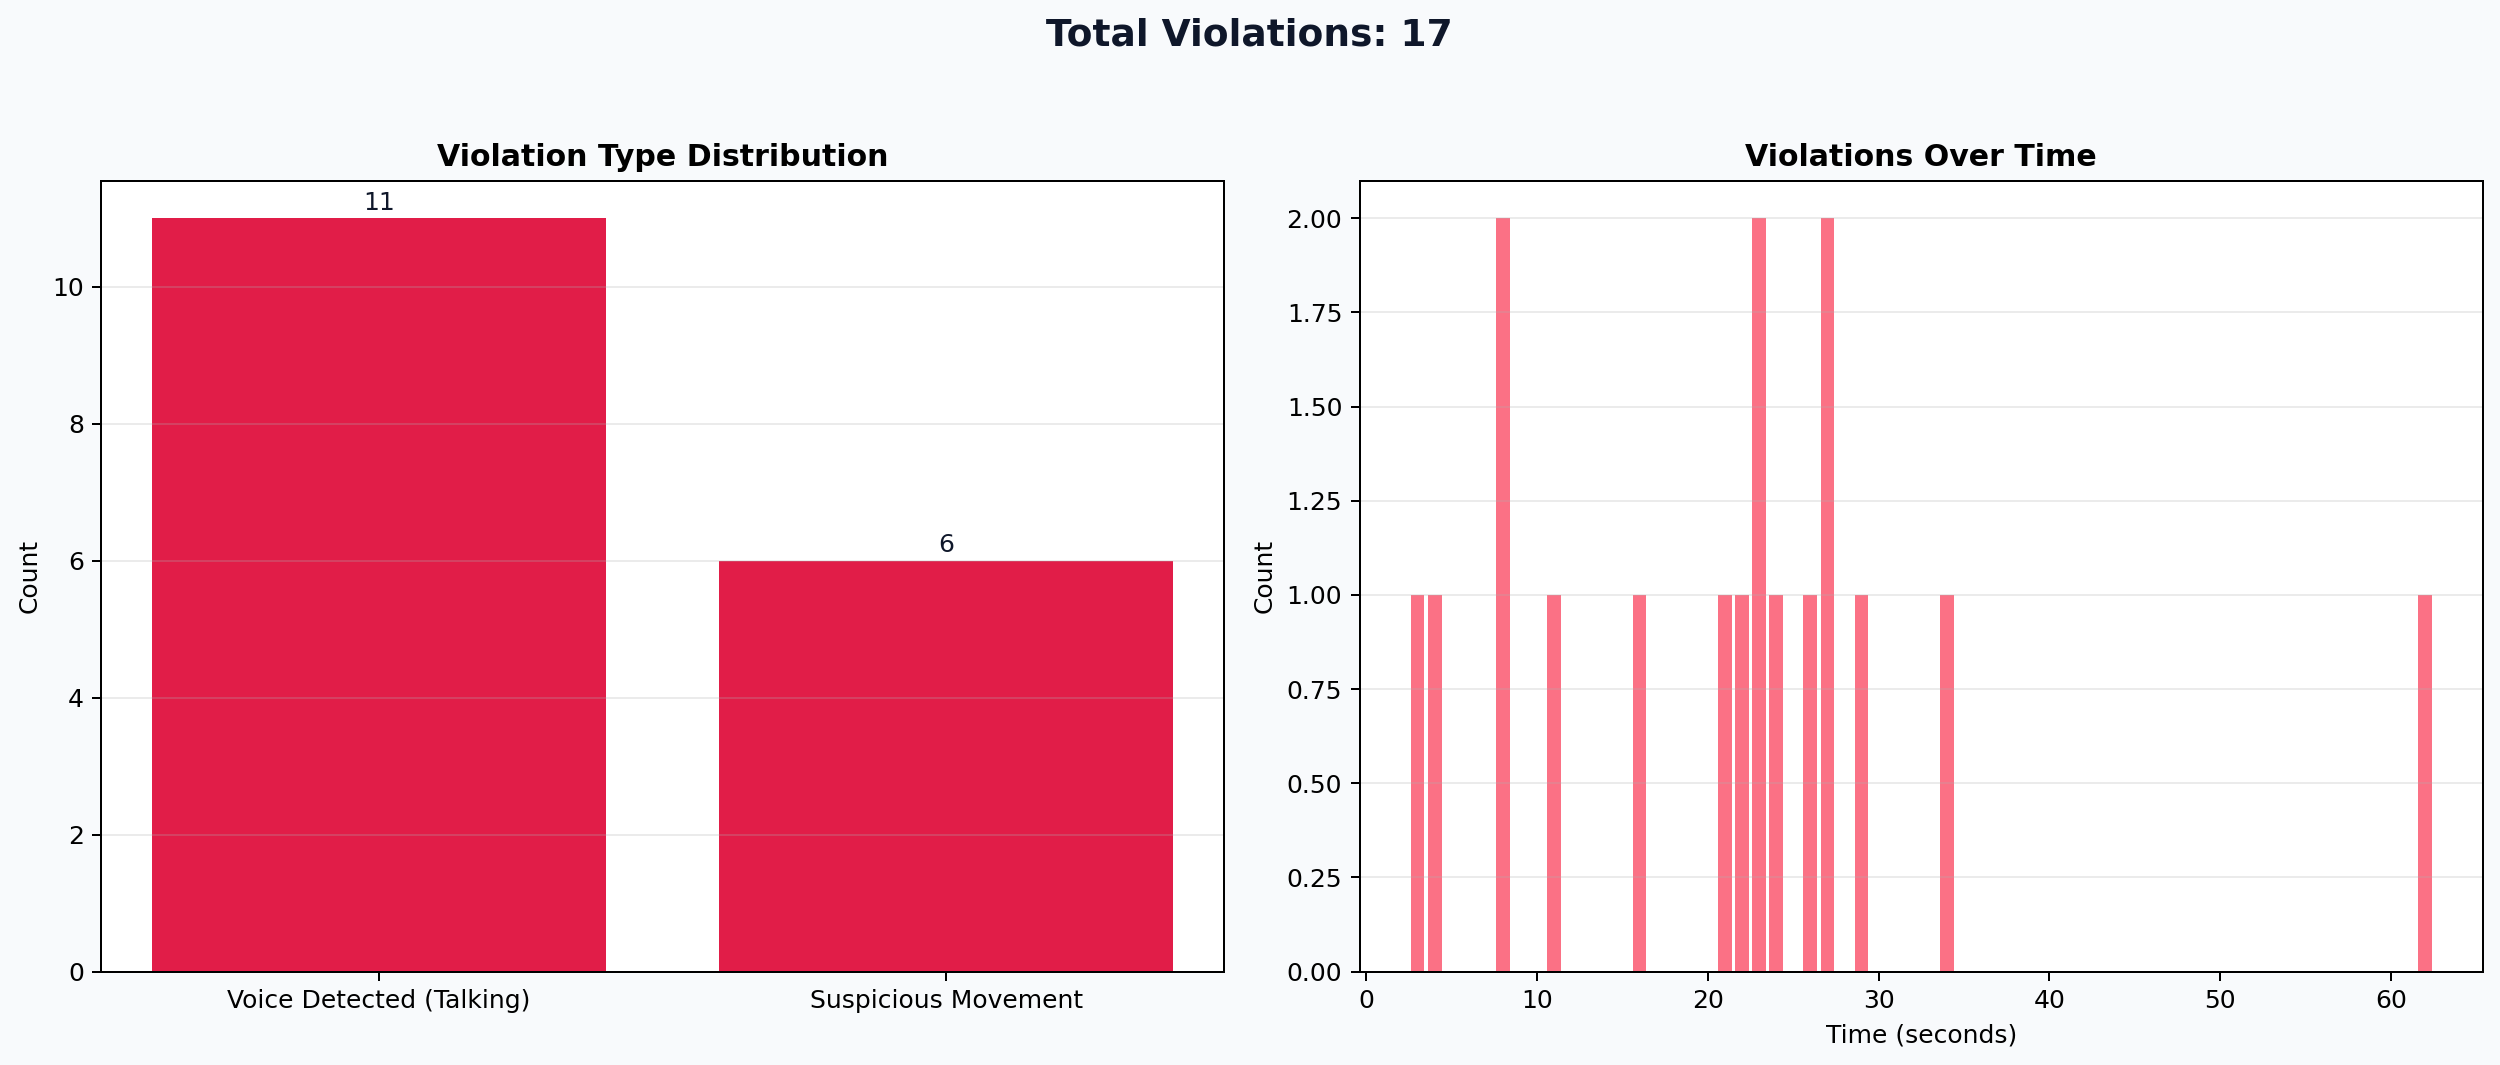
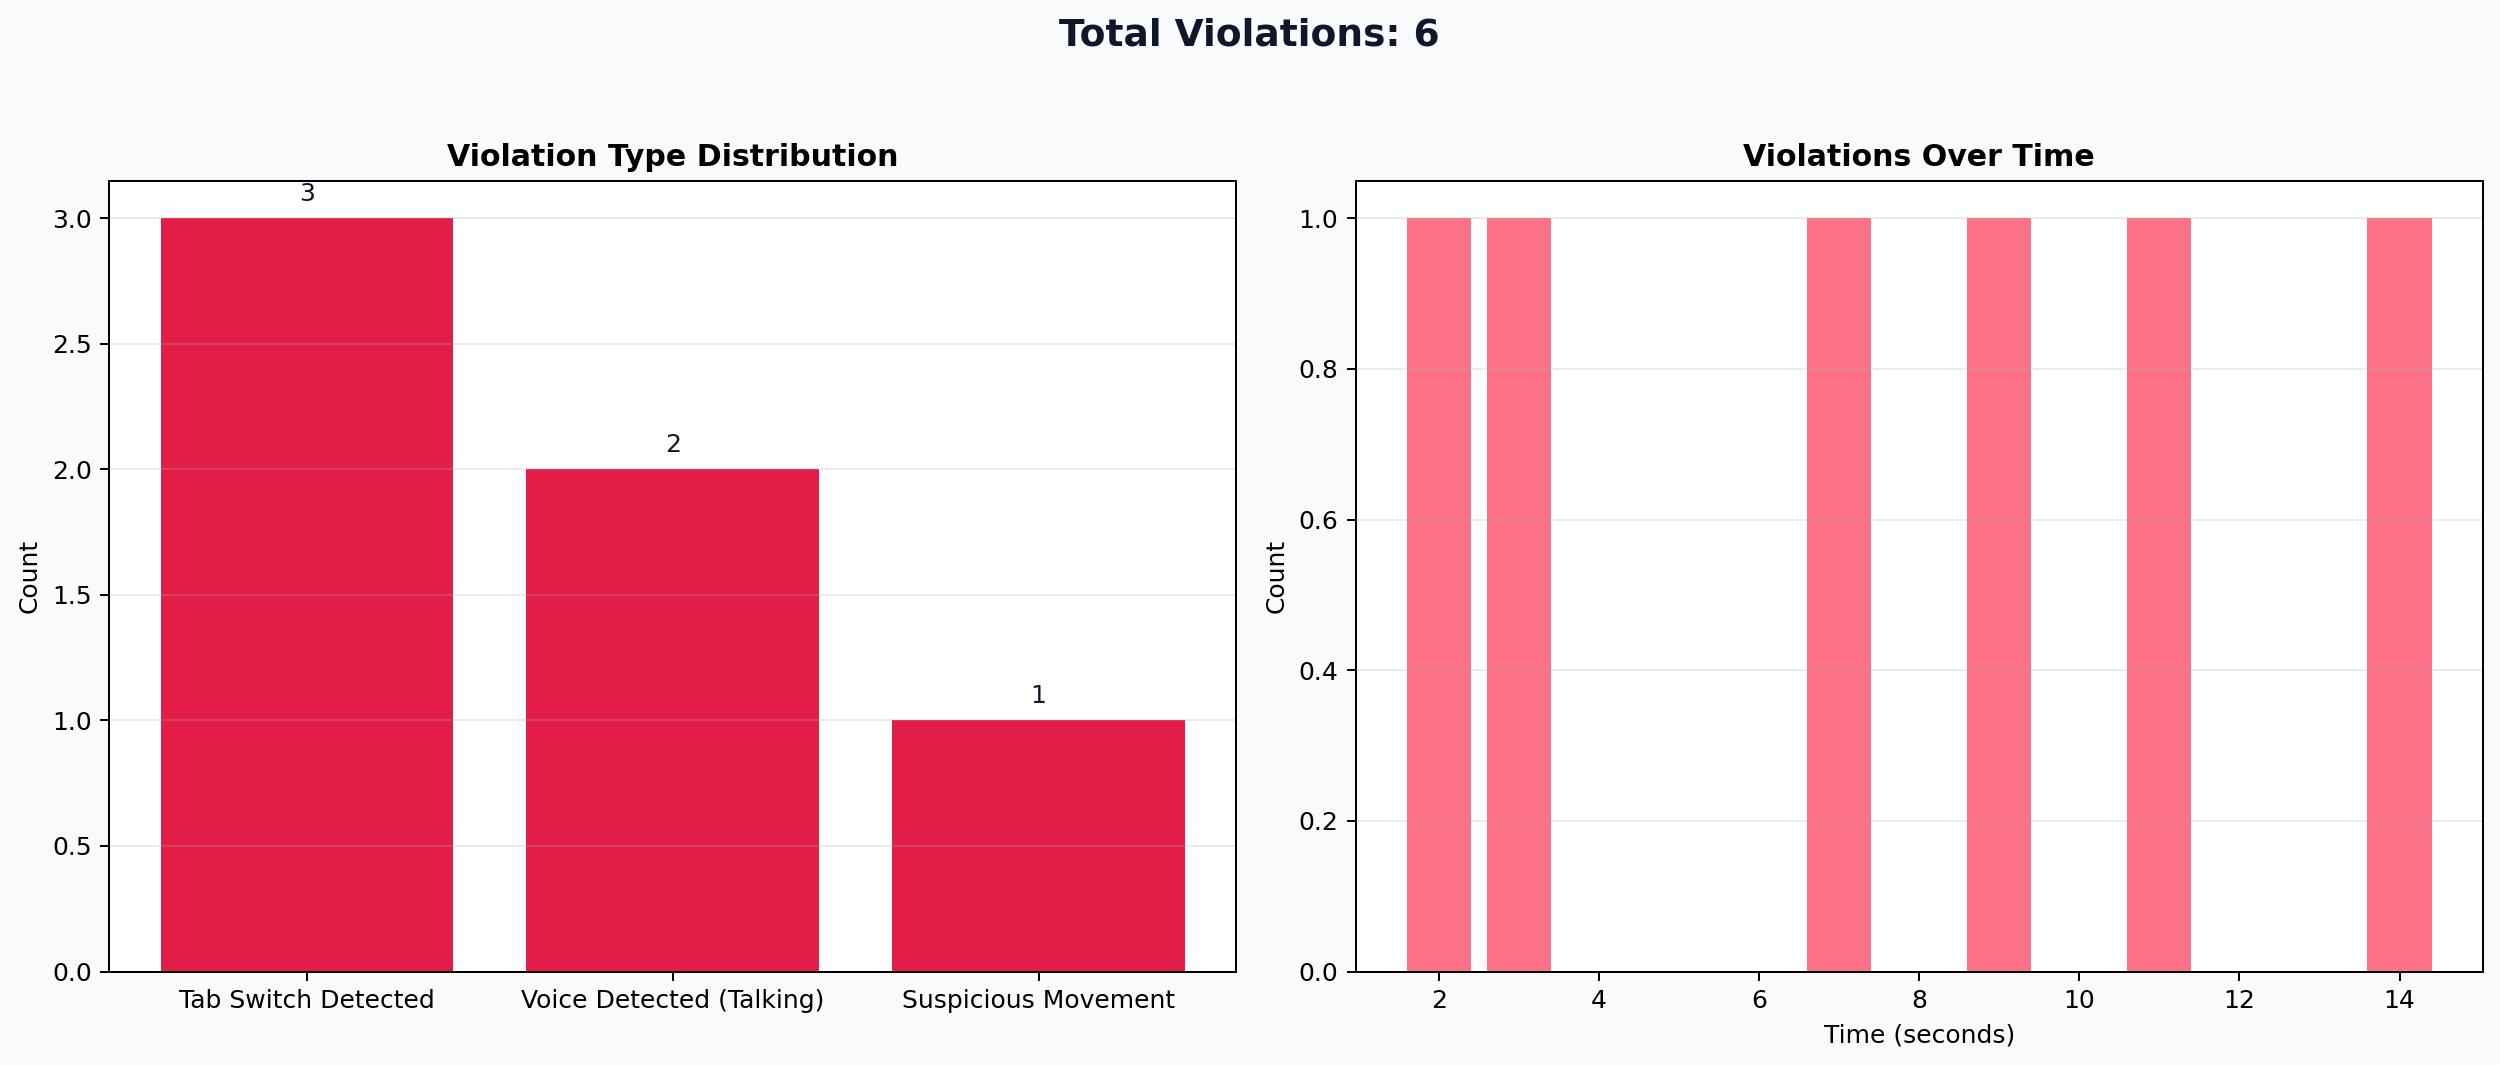
Add screen monitoring and update proctoring flow

diff --git a/ai_proctoring/screen_monitor.py b/ai_proctoring/screen_monitor.py
@@ -1,0 +1,127 @@
+import time
+from collections import deque
+
+try:
+    import cv2
+    import numpy as np
+except Exception:
+    cv2 = None
+    np = None
+
+try:
+    import mss
+except Exception:
+    mss = None
+
+
+class ScreenMonitor:
+    """
+    Idle-ready screen monitoring helper.
+
+    This module is intentionally not wired into main.py yet.
+    It can be integrated later to capture the display and run
+    basic anomaly checks.
+    """
+
+    def __init__(self, monitor_index=1, fps=1.0):
+        self.monitor_index = int(monitor_index)
+        self.fps = max(0.2, float(fps))
+        self.frame_interval = 1.0 / self.fps
+        self.last_capture_time = 0.0
+        self.started = False
+        self._sct = None
+        self._prev_gray = None
+        self._recent_scores = deque(maxlen=30)
+        self._last_tab_switch_time = 0.0
+
+    def start(self):
+        if self.started:
+            return True
+        if mss is None or cv2 is None or np is None:
+            return False
+        self._sct = mss.mss()
+        self.started = True
+        return True
+
+    def stop(self):
+        if self._sct is not None:
+            self._sct.close()
+        self._sct = None
+        self._prev_gray = None
+        self._recent_scores.clear()
+        self._last_tab_switch_time = 0.0
+        self.started = False
+
+    def capture_frame(self):
+        """
+        Capture one screen frame as BGR numpy array.
+        Returns None when monitor is unavailable or monitor is not started.
+        """
+        if not self.started or self._sct is None:
+            return None
+        monitors = self._sct.monitors
+        if self.monitor_index >= len(monitors):
+            return None
+        raw = self._sct.grab(monitors[self.monitor_index])
+        frame = np.array(raw)
+        return cv2.cvtColor(frame, cv2.COLOR_BGRA2BGR)
+
+    def poll(self):
+        """
+        Rate-limited capture + lightweight scene-change analysis.
+        Returns:
+            {
+              "timestamp": <epoch_sec>,
+              "scene_changed": <bool>,
+              "change_score": <float>,
+              "frame": <np.ndarray | None>
+            }
+        """
+        now = time.time()
+        if (now - self.last_capture_time) < self.frame_interval:
+            return None
+
+        self.last_capture_time = now
+        frame = self.capture_frame()
+        if frame is None or cv2 is None:
+            return {
+                "timestamp": now,
+                "scene_changed": False,
+                "change_score": 0.0,
+                "frame": None,
+            }
+
+        gray = cv2.cvtColor(frame, cv2.COLOR_BGR2GRAY)
+        scene_changed = False
+        score = 0.0
+        changed_ratio = 0.0
+        tab_switch_detected = False
+        adaptive_threshold = 18.0
+        if self._prev_gray is not None:
+            diff = cv2.absdiff(gray, self._prev_gray)
+            score = float(np.mean(diff))
+            scene_changed = score > 18.0
+            changed_ratio = float(np.mean(diff > 25))
+
+            baseline = float(np.median(self._recent_scores)) if self._recent_scores else 0.0
+            adaptive_threshold = max(12.0, baseline * 2.2)
+            cooldown_ok = (now - self._last_tab_switch_time) >= 2.0
+            tab_switch_detected = (
+                cooldown_ok
+                and score > adaptive_threshold
+                and changed_ratio > 0.20
+            )
+            if tab_switch_detected:
+                self._last_tab_switch_time = now
+        self._recent_scores.append(score)
+        self._prev_gray = gray
+
+        return {
+            "timestamp": now,
+            "scene_changed": scene_changed,
+            "change_score": score,
+            "changed_ratio": changed_ratio,
+            "adaptive_threshold": adaptive_threshold,
+            "tab_switch_detected": tab_switch_detected,
+            "frame": frame,
+        }

diff --git a/ai_proctoring/detector.py b/ai_proctoring/detector.py
@@ -36,6 +36,13 @@ class ProctorDetector:
             )
         self.frame_idx = 0
         self.prev_mouth_ratio = None
+        self.mouth_ratio_ema = None
+        self.mouth_delta_ema = 0.0
+        self.mouth_baseline = None
+        self.mouth_baseline_samples = 0
+        self.mouth_motion_frames = 0
+        self.mouth_rest_frames = 0
+        self.mouth_moving_state = False
 
     def process_frame(self, frame):
         """
@@ -171,13 +178,55 @@ class ProctorDetector:
             mouth_width = math.hypot(left_mouth.x - right_mouth.x, left_mouth.y - right_mouth.y)
             mouth_ratio = (mouth_height / mouth_width) if mouth_width > 0 else 0.0
 
-            mouth_open = mouth_ratio > 0.10
-            if self.prev_mouth_ratio is None:
-                mouth_changed = False
+            # Robust mouth movement detection:
+            # 1) Smooth the ratio and motion signal to suppress landmark jitter.
+            # 2) Learn a personal baseline while mouth is mostly at rest.
+            # 3) Use hysteresis + sustain frames to avoid always-on flicker.
+            if self.mouth_ratio_ema is None:
+                self.mouth_ratio_ema = mouth_ratio
             else:
-                mouth_changed = abs(mouth_ratio - self.prev_mouth_ratio) > 0.015
-            self.prev_mouth_ratio = mouth_ratio
-            mouth_moving = mouth_open or mouth_changed
+                self.mouth_ratio_ema = (0.75 * self.mouth_ratio_ema) + (0.25 * mouth_ratio)
+
+            if self.prev_mouth_ratio is None:
+                mouth_delta = 0.0
+            else:
+                mouth_delta = abs(self.mouth_ratio_ema - self.prev_mouth_ratio)
+            self.prev_mouth_ratio = self.mouth_ratio_ema
+            self.mouth_delta_ema = (0.70 * self.mouth_delta_ema) + (0.30 * mouth_delta)
+
+            if self.mouth_baseline is None:
+                self.mouth_baseline = self.mouth_ratio_ema
+            baseline_gap = self.mouth_ratio_ema - self.mouth_baseline
+
+            # Adapt baseline only when stable, so speaking does not poison it.
+            if self.mouth_delta_ema < 0.0035 and baseline_gap < 0.020:
+                self.mouth_baseline = (0.95 * self.mouth_baseline) + (0.05 * self.mouth_ratio_ema)
+                self.mouth_baseline_samples += 1
+
+            baseline_ready = self.mouth_baseline_samples >= 12
+            open_trigger_on = max(self.mouth_baseline + 0.055, 0.14)
+            open_trigger_off = max(self.mouth_baseline + 0.030, 0.11)
+            motion_trigger = 0.006
+
+            strong_motion = (self.mouth_ratio_ema > open_trigger_on) or (self.mouth_delta_ema > motion_trigger)
+            resting_motion = (self.mouth_ratio_ema < open_trigger_off) and (self.mouth_delta_ema < (motion_trigger * 0.75))
+
+            if baseline_ready and strong_motion:
+                self.mouth_motion_frames += 1
+                self.mouth_rest_frames = 0
+            elif baseline_ready and resting_motion:
+                self.mouth_rest_frames += 1
+                self.mouth_motion_frames = max(0, self.mouth_motion_frames - 1)
+            else:
+                self.mouth_motion_frames = max(0, self.mouth_motion_frames - 1)
+                self.mouth_rest_frames = max(0, self.mouth_rest_frames - 1)
+
+            if not self.mouth_moving_state and self.mouth_motion_frames >= 4:
+                self.mouth_moving_state = True
+            elif self.mouth_moving_state and self.mouth_rest_frames >= 5:
+                self.mouth_moving_state = False
+
+            mouth_moving = self.mouth_moving_state
 
             # Annotate Frame with primary face bounds
             x_coords = [lm.x for lm in primary_face]

diff --git a/ai_proctoring/main.py b/ai_proctoring/main.py
@@ -4,8 +4,11 @@ import argparse
 import threading
 import numpy as np
 from detector import ProctorDetector
+from screen_monitor import ScreenMonitor  # SCREEN_MONITOR_REF: import screen monitor helper
 from utils import ViolationManager, Config
 from report import generate_report
+
+SCREEN_MONITOR_ENABLED = True  # SCREEN_MONITOR_REF: set True to enable screen monitoring, False to disable
 
 try:
     import sounddevice as sd
@@ -131,6 +134,11 @@ def main():
     if args.voice_threshold is not None and voice_monitor.available:
         voice_monitor.threshold = max(0.001, float(args.voice_threshold))
         print(f"Manual voice threshold applied: {voice_monitor.threshold:.3f}")
+
+    # SCREEN_MONITOR_REF START: one-line toggle via SCREEN_MONITOR_ENABLED at top of file
+    screen_monitor = ScreenMonitor(monitor_index=1, fps=1.0)  # Prepared instance for optional activation
+    screen_enabled = screen_monitor.start() if SCREEN_MONITOR_ENABLED else False  # Single-switch start behavior
+    # SCREEN_MONITOR_REF END
     
     no_face_start_time = None
     looking_away_frames = 0
@@ -140,6 +148,7 @@ def main():
     last_gaze_status = None
     last_mouth_moving = False
     last_voice_violation = False
+    last_tab_switch_detected = False
     
     print("Press 'q' to exit.")
     
@@ -168,6 +177,22 @@ def main():
                 level, _ = voice_monitor.snapshot()
                 violation_manager.add_voice_event(level)
             last_voice_violation = voice_violation
+
+            # SCREEN_MONITOR_REF START: poll display changes and log a console hint when scene changes
+            if screen_enabled:  # Only run if screen monitor started successfully
+                screen_data = screen_monitor.poll()  # Rate-limited capture + scene-change score
+                if screen_data and screen_data["scene_changed"]:  # Trigger only on meaningful display change
+                    print(f"[SCREEN] change={screen_data['change_score']:.2f}")  # Lightweight debug/visibility log
+                tab_switch_detected = bool(screen_data and screen_data.get("tab_switch_detected"))
+                if tab_switch_detected and not last_tab_switch_detected:
+                    violation_manager.add_violation("Tab Switch Detected")
+                    print(
+                        "[SCREEN] Tab switch detected "
+                        f"(score={screen_data.get('change_score', 0.0):.2f}, "
+                        f"ratio={screen_data.get('changed_ratio', 0.0):.2f})"
+                    )
+                last_tab_switch_detected = tab_switch_detected
+            # SCREEN_MONITOR_REF END
             
             # Rule 1: No Face
             if num_faces == 0:
@@ -259,6 +284,9 @@ def main():
         # Cleanup
         cap.release()
         voice_monitor.close()
+        # SCREEN_MONITOR_REF: stop screen monitor cleanly if it was started
+        if 'screen_enabled' in locals() and screen_enabled:
+            screen_monitor.stop()
         cv2.destroyAllWindows()
         
         # Save logs and generate report
